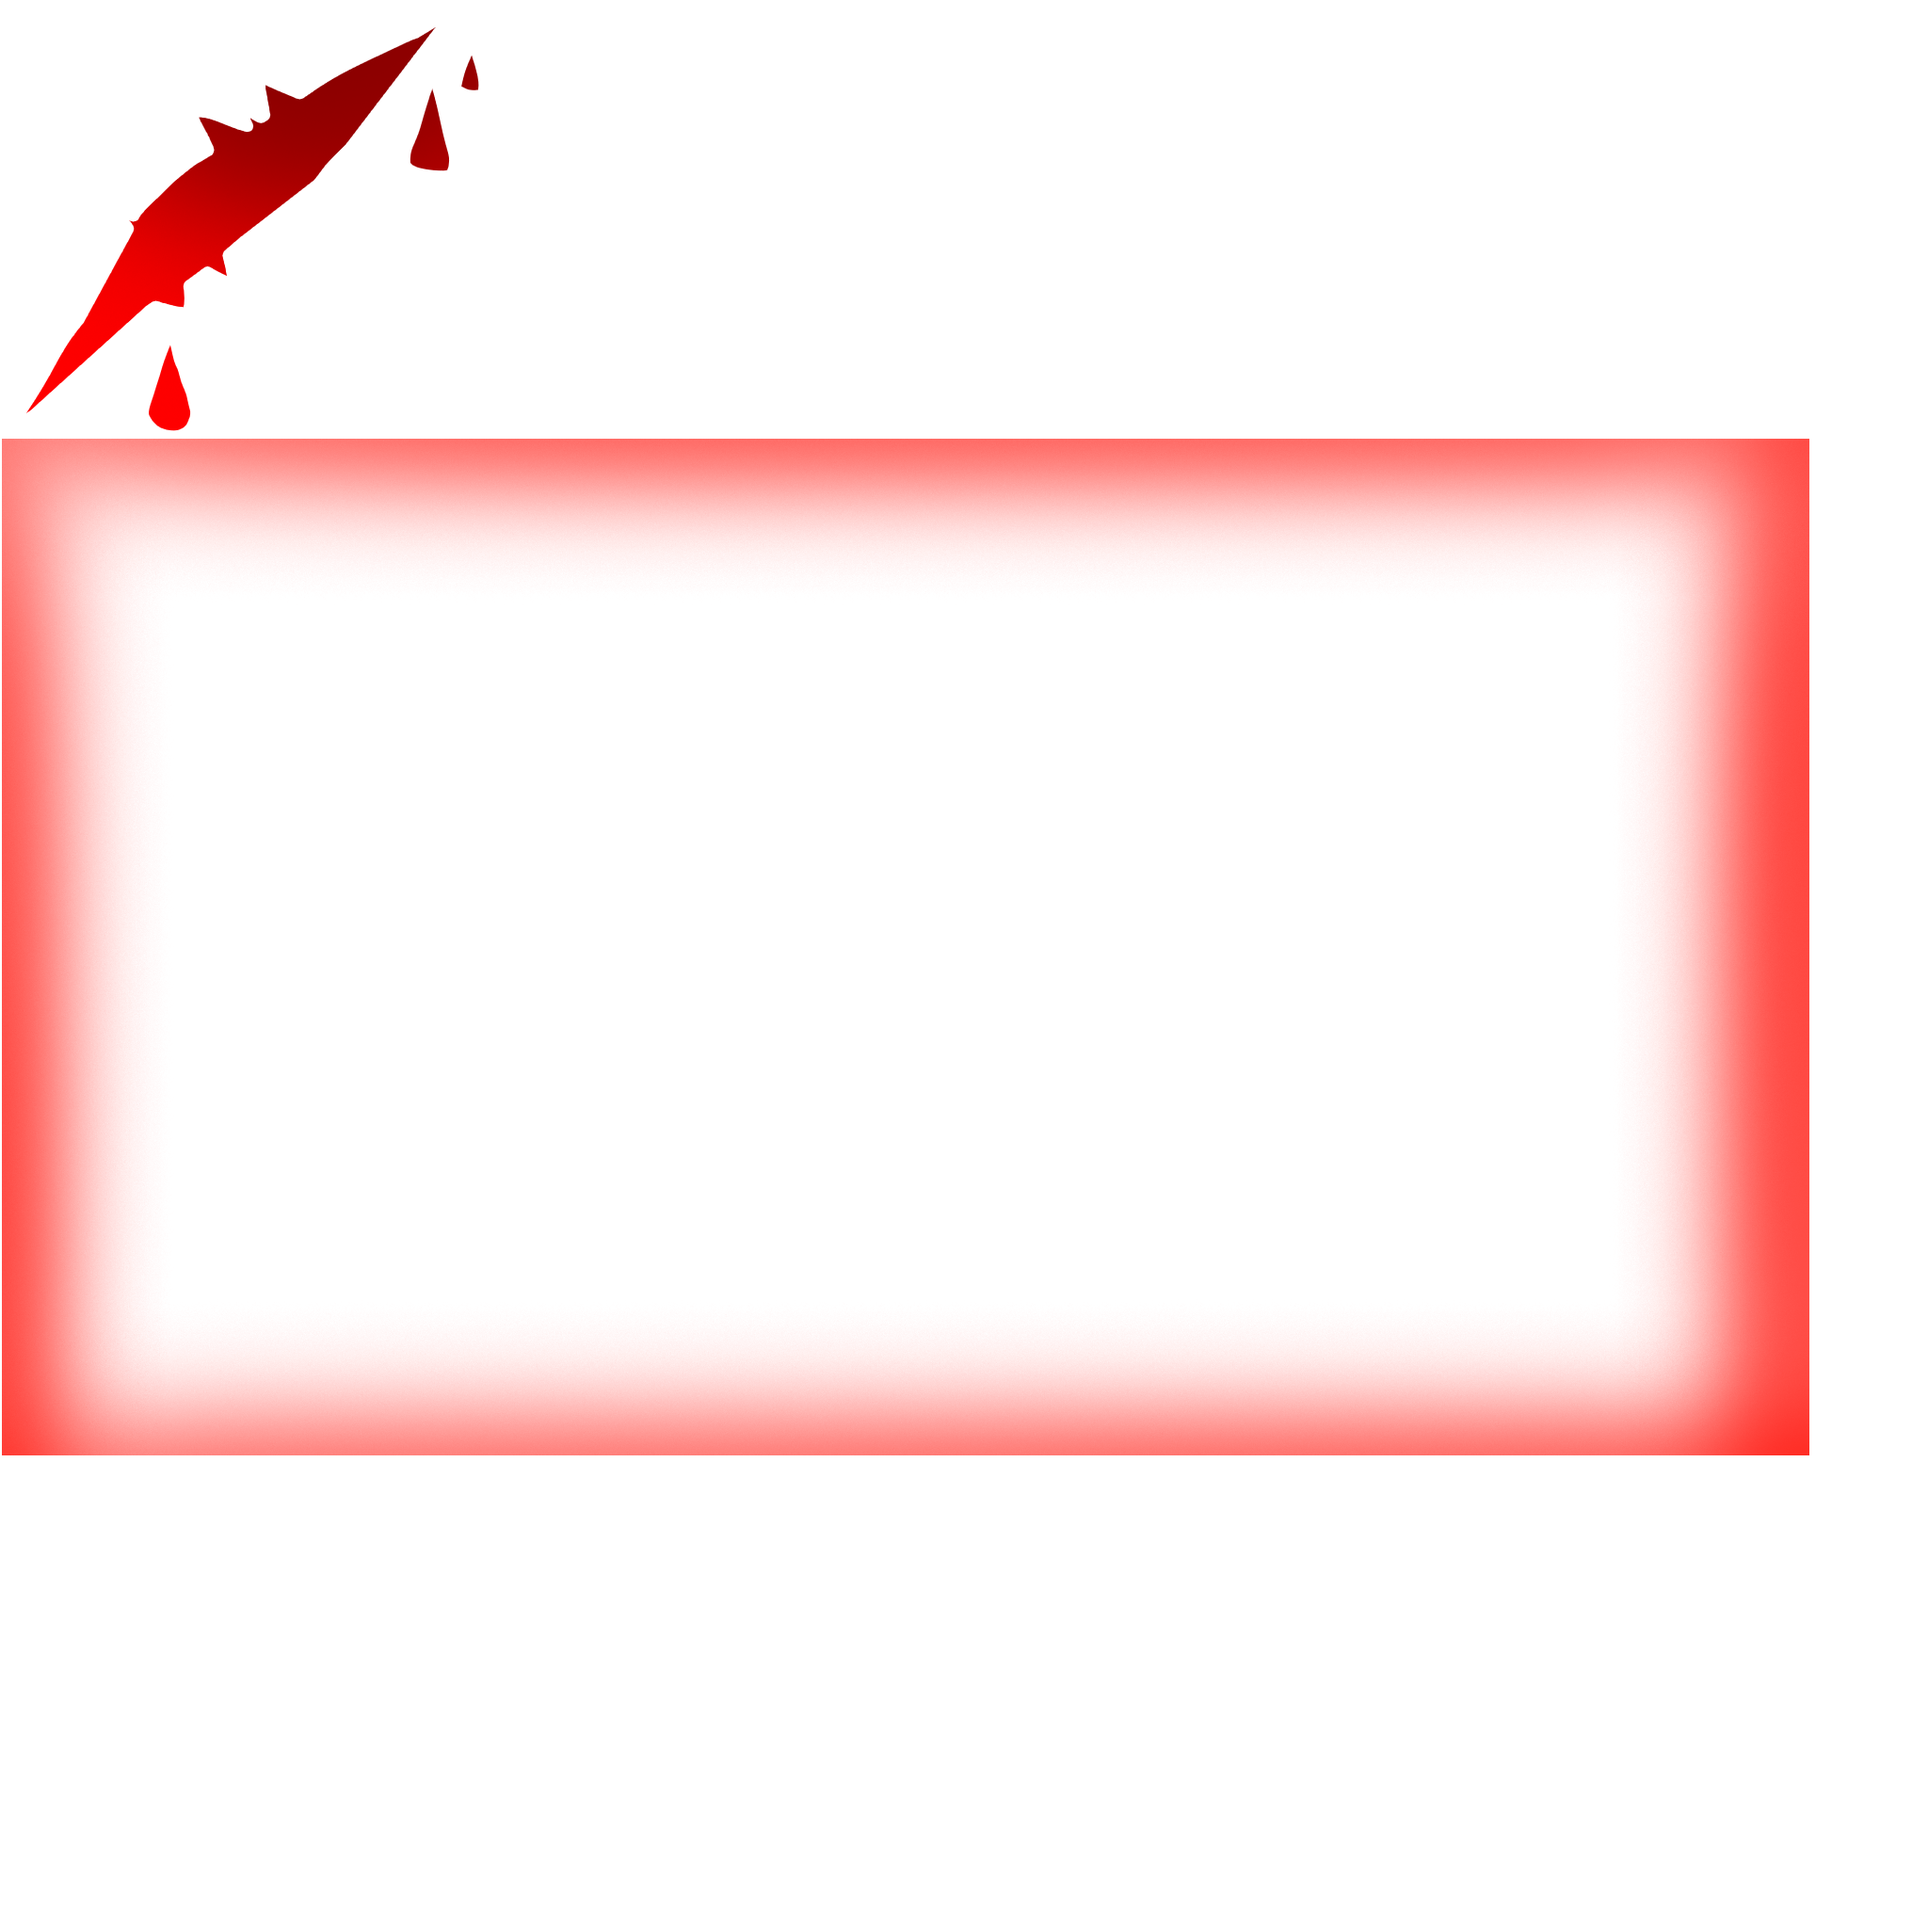
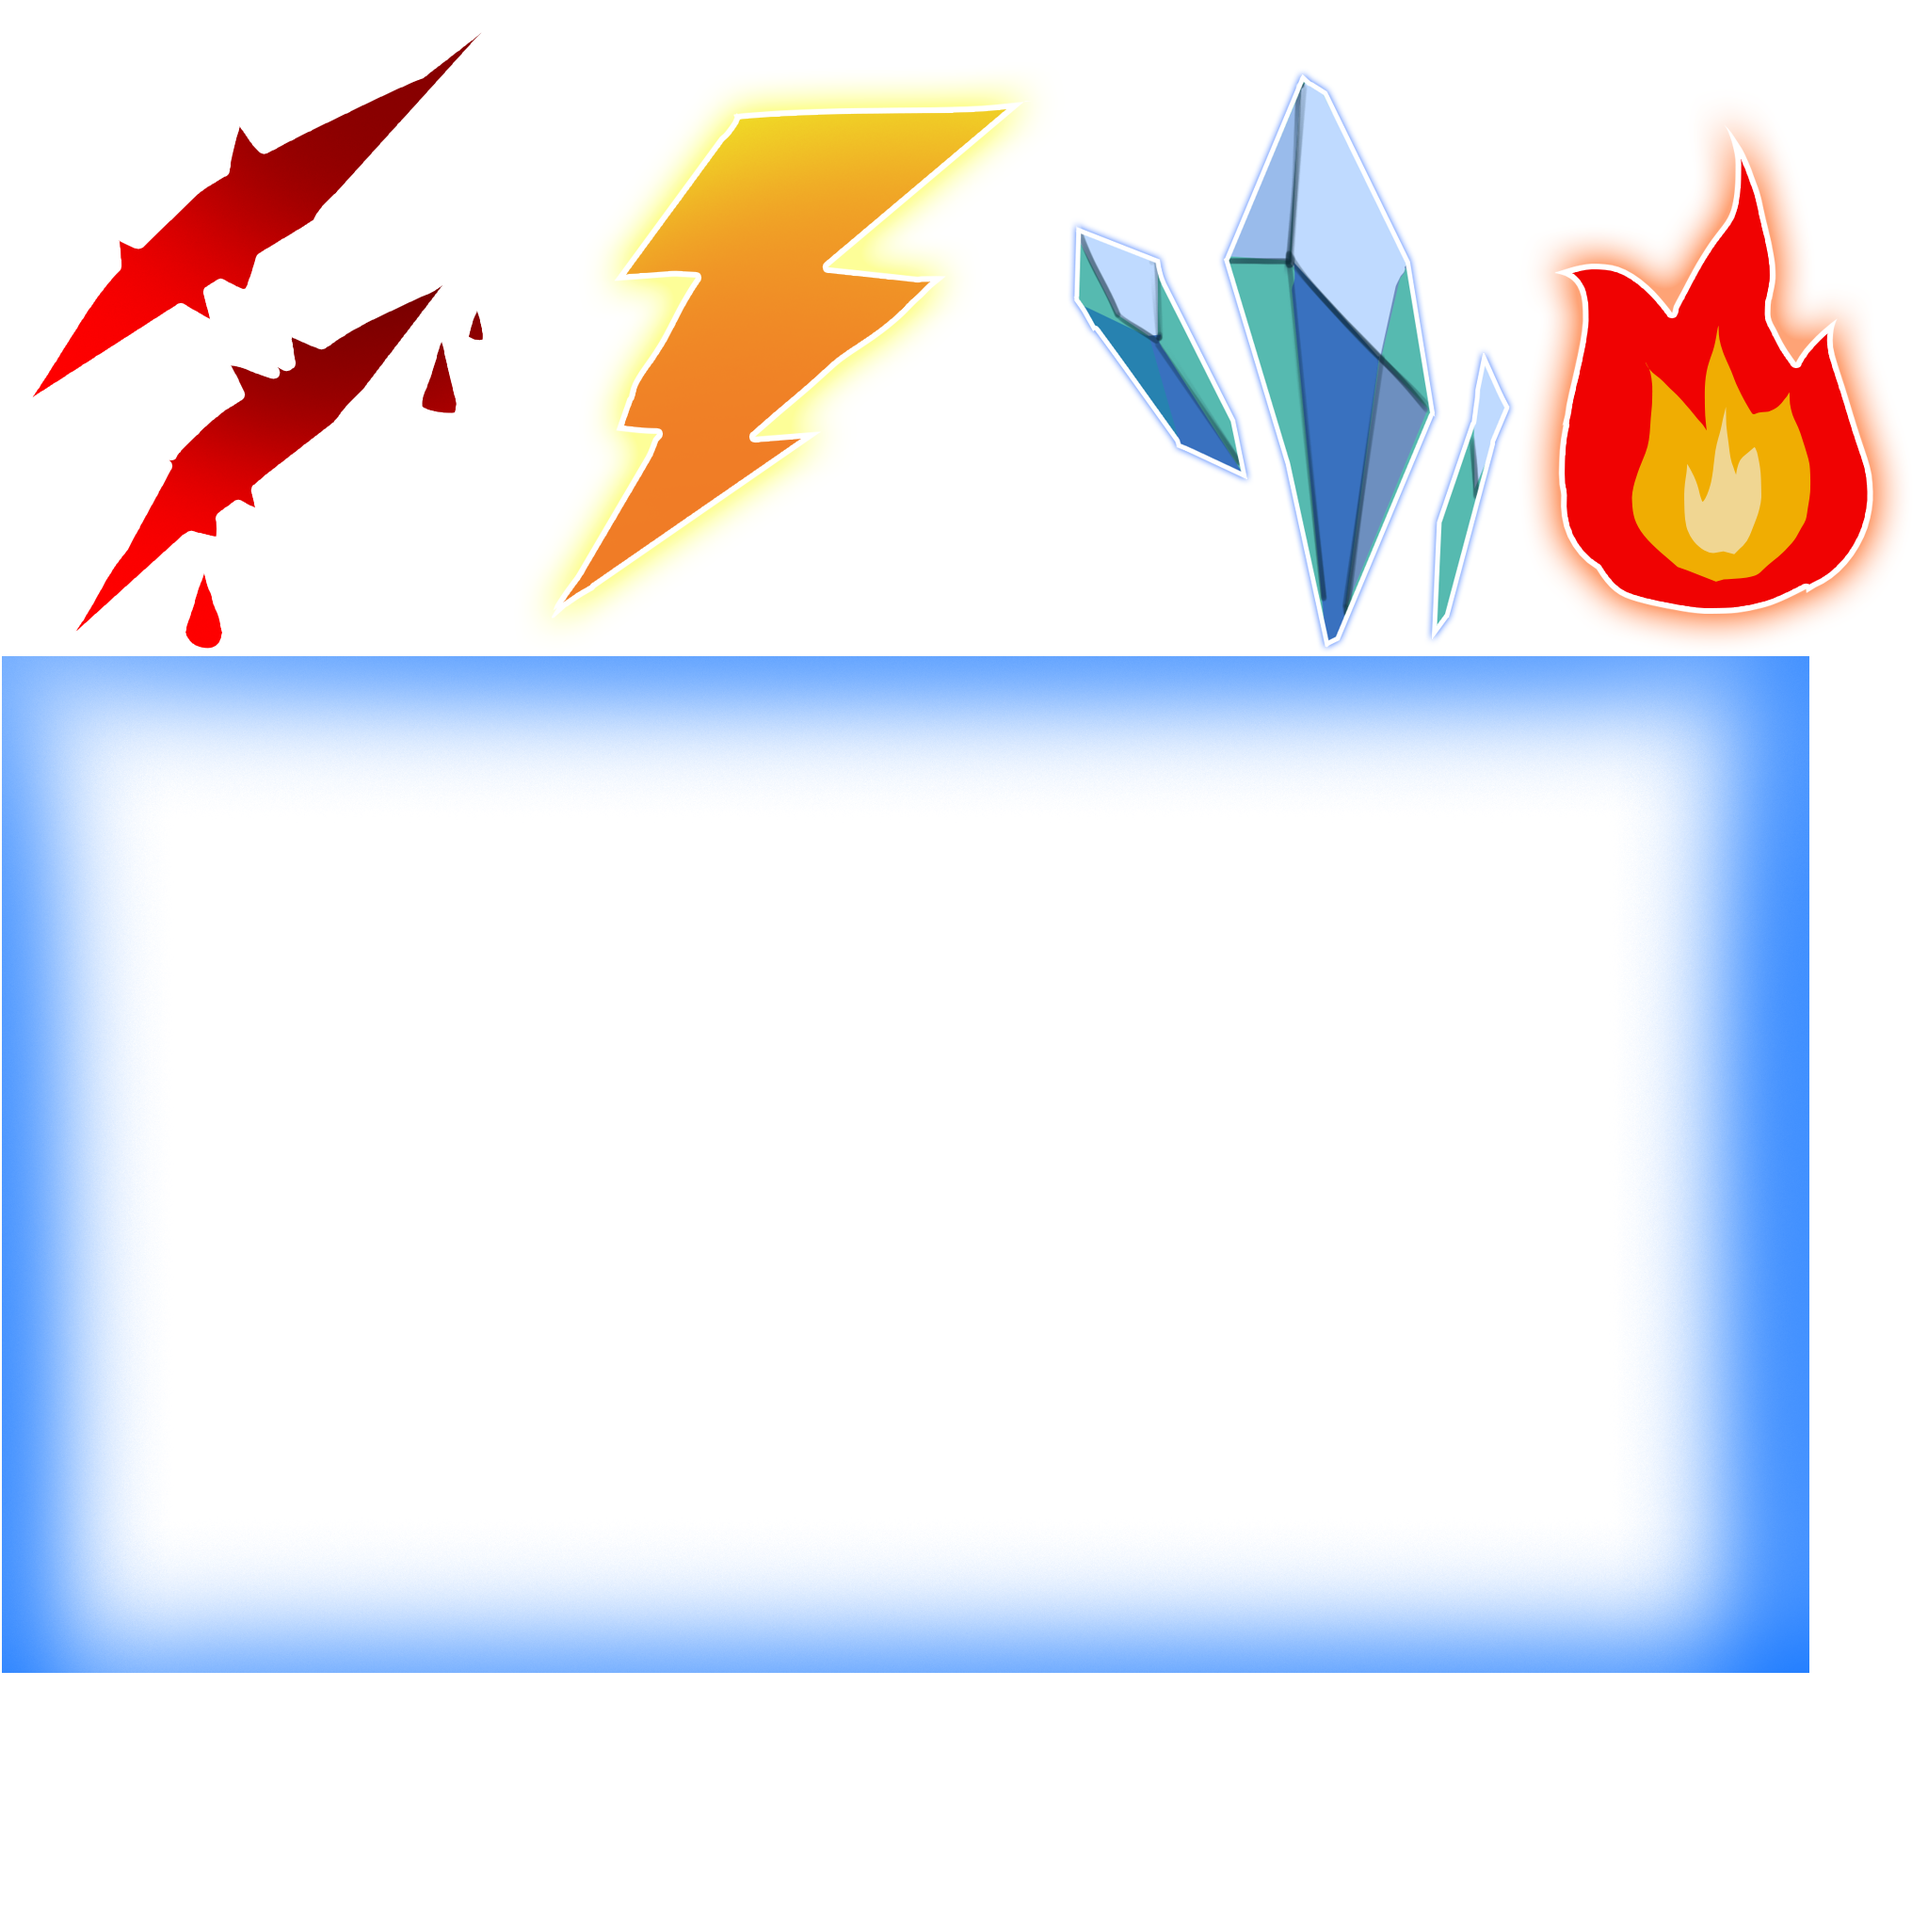
Гуй

diff --git a/core/src/com/d954mas/game/indicator2019/speech/model/World.java b/core/src/com/d954mas/game/indicator2019/speech/model/World.java
@@ -1,6 +1,7 @@
 package com.d954mas.game.indicator2019.speech.model;
 
 import com.badlogic.gdx.Gdx;
+import com.badlogic.gdx.graphics.g2d.TextureRegion;
 import com.badlogic.gdx.scenes.scene2d.Actor;
 import com.badlogic.gdx.scenes.scene2d.Stage;
 import com.badlogic.gdx.scenes.scene2d.actions.Actions;
@@ -17,7 +18,9 @@ import com.d954mas.game.indicator2019.speech.model.enemies.Enemies;
 import com.d954mas.game.indicator2019.speech.model.enemies.Enemy;
 import com.d954mas.game.indicator2019.speech.services.iface.SpeechService;
 import com.d954mas.game.indicator2019.speech.sounds.Sounds;
+import com.d954mas.utils.Constants;
 import com.generated.ResGame;
+import com.generated.ResUi;
 
 import org.apache.lucene.morphology.LuceneMorphology;
 import org.apache.lucene.morphology.russian.RussianLuceneMorphology;
@@ -149,6 +152,11 @@ public class World {
 
     private void defenceHero(int defence){
         heroDefence = heroDefence + defence;
+        Actor actor = new Image(ResGame.res.effect_atlas.vinetka_player_def);
+        actor.getColor().a = 1;
+        actor.addAction(Actions.sequence(Actions.alpha(1),Actions.delay(0.5f),Actions.alpha(0),
+                Actions.removeActor()));
+        stage.addActor(actor);
     }
 
     private void defenceEnemy(int defence){
@@ -189,9 +197,33 @@ public class World {
         }
     }
 
+
     public boolean playWords(List<MagicWord> words){
         if(words.size()>1 && state == States.PLAYER_TURN) {
+
+            float dt = 0;
             for (MagicWord word : words) {
+                dt = dt + 0.3f;
+                TextureRegion region = ResUi.res.atlas_atlas.empty;
+                if(word==MagicWords.attack){
+                    region = ResGame.res.effect_atlas.attack_effect;
+                }else if(word == MagicWords.fire){
+                    region = ResGame.res.effect_atlas.fire_effect;
+                }else if(word == MagicWords.storm){
+                    region = ResGame.res.effect_atlas.light_effect;
+                }else if(word == MagicWords.ice){
+                    region = ResGame.res.effect_atlas.ice_effect;
+                }else if(word == MagicWords.lie){
+                    region = ResGame.res.effect_atlas.obman_effect;
+                }else if(word == MagicWords.love){
+                    region = ResGame.res.effect_atlas.love_effect;
+                }
+                Actor actor = new Image(region);
+                actor.setPosition(Constants.GAME_WIDTH/2-actor.getWidth()/2,Constants.GAME_HEIGHT/2-actor.getHeight()/2);
+                actor.getColor().a = 0;
+                actor.addAction(Actions.sequence(Actions.delay(dt),Actions.alpha(1,0.15f),Actions.delay(0.2f),Actions.alpha(0.1f),
+                        Actions.removeActor()));
+                stage.addActor(actor);
                // if (!handsWords.remove(word)) {
                  //   Gdx.app.log(TAG, "can't play word not from hand");
               //  }
